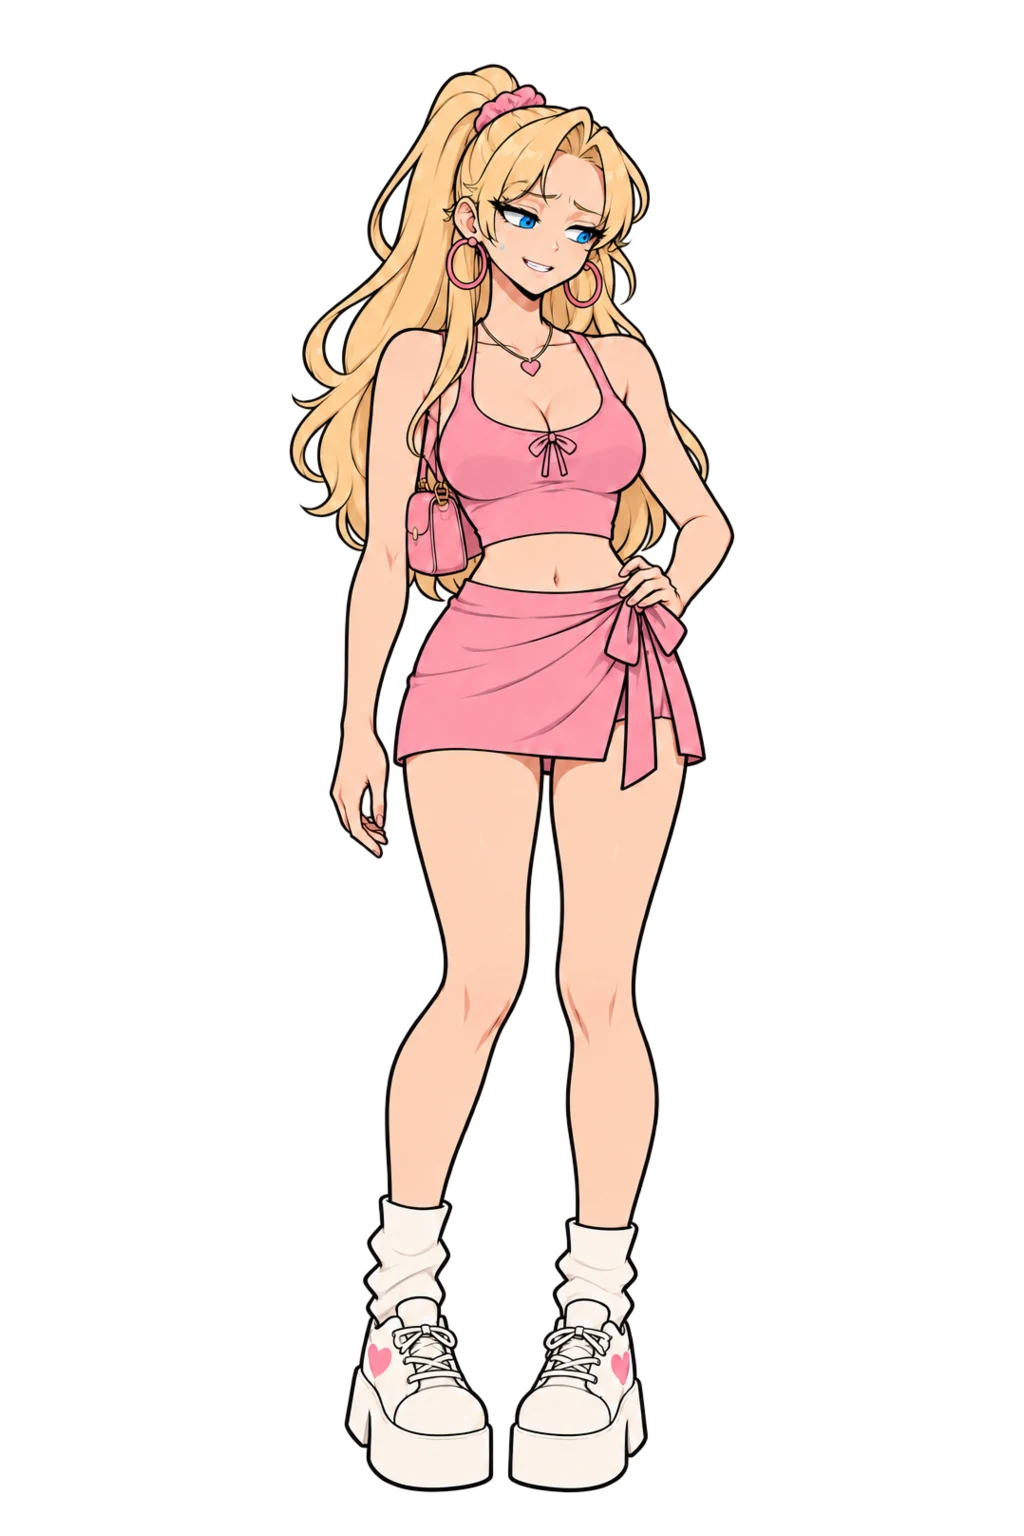
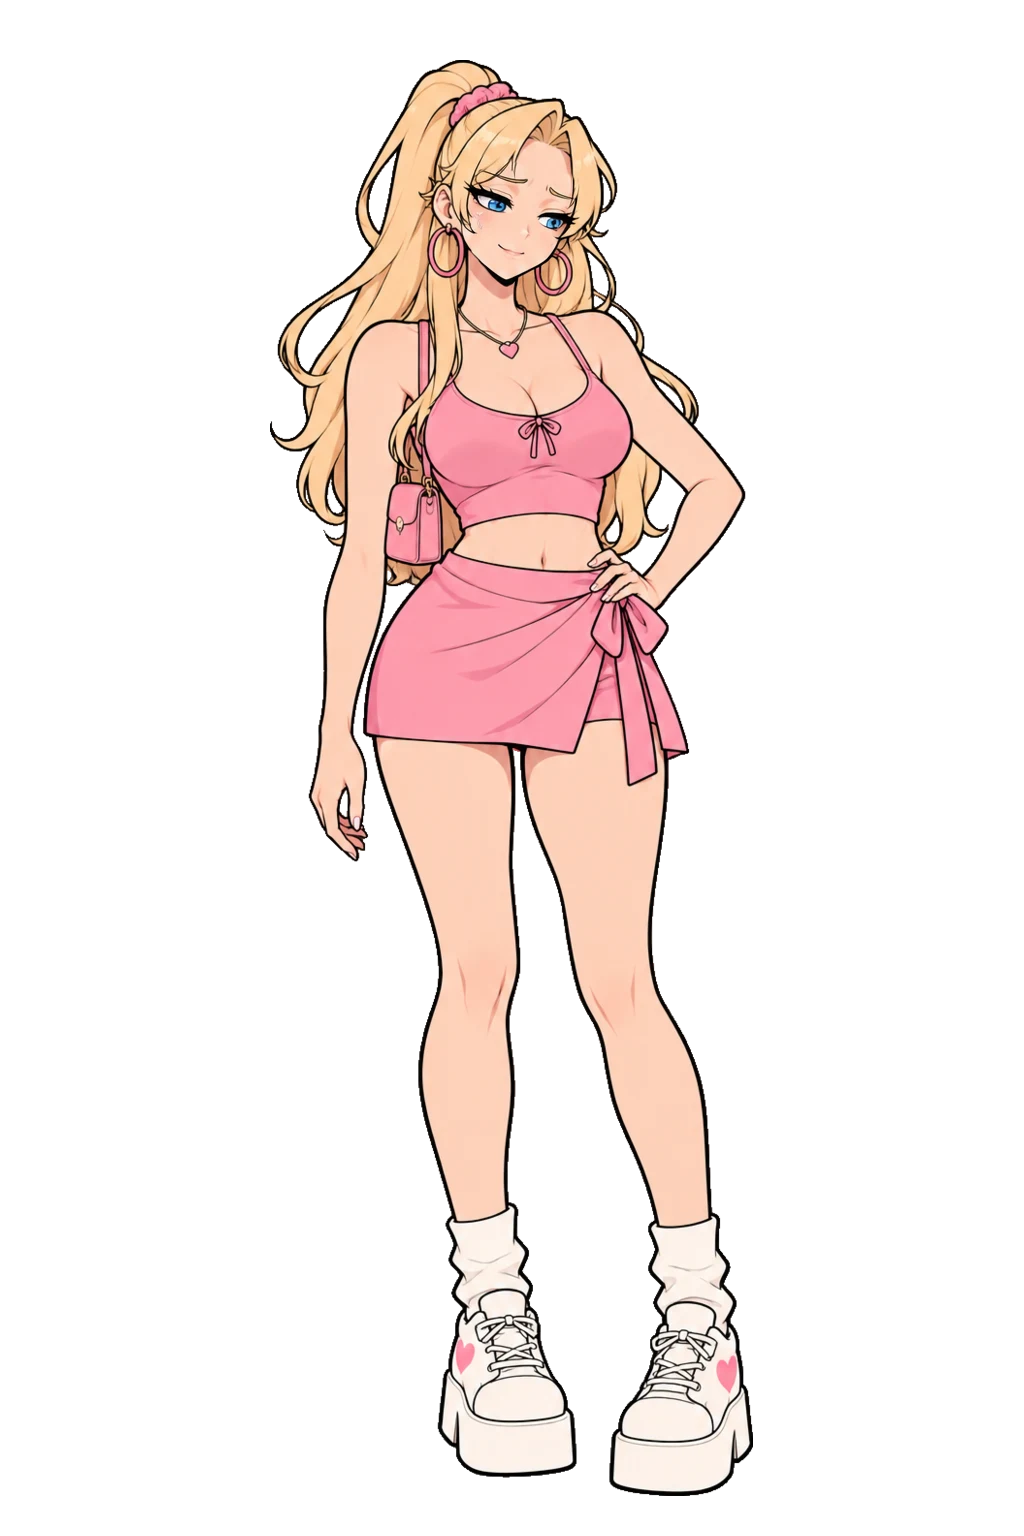
New Mika sprites: closed-mouth emotions with talk frames
Mika's full set redone from the original reference: 17 emotion sprites
with closed mouths and 17 talk frames, imported as mouth patches. Checked:
emotions differ from their pose base only in the face, talk frames only
in the mouth; canvas, margins and scale match Rei and Iris.

Claude-Session: https://claude.ai/code/session_01Ltk4KpLrTedjFSZHtyUqES

Changed region(s): [[0.25, 0.0312, 0.75, 1.0]]

diff --git a/docs/17-closed-mouth-sprites-brief.md b/docs/17-closed-mouth-sprites-brief.md
@@ -1,5 +1,7 @@
 # English Club — бриф: Мика заново, спрайты с закрытым ртом и кадры речи
 
+**Выполнено 29.10.2026:** новый комплект Мики (17 спрайтов и 17 кадров речи) подключён.
+
 Версия 1 · 29.10.2026. Заменяет [`16-talk-frames-redo-brief.md`](16-talk-frames-redo-brief.md). Общие требования к спрайтам — в [`11-sprite-brief.md`](11-sprite-brief.md).
 
 ## 1. Зачем переделываем
